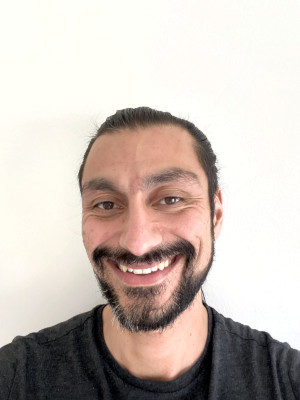
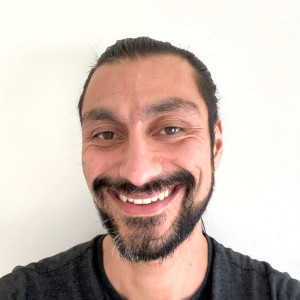
Footer (#11)
added footer and adjusted page css correspondigly

added source button to open new window in github repo

Changed region(s): [[0.0, 0.12, 1.0, 1.0], [0.84, 0.96, 0.87, 1.0], [0.24, 0.9, 0.27, 0.93]]

diff --git a/src/app/profile/aboutme/AboutMe.jsx b/src/app/profile/aboutme/AboutMe.jsx
@@ -17,7 +17,7 @@ export const AboutMe=()=>{
                 <img 
                     className={styles.headshot} 
                     ref={headshot} 
-                    src={"/headshot-square.jpeg"} 
+                    src={"/headshot.jpeg"} 
                     onLoad={()=>setImgLoaded(true)}/>
             </div>
             <div className={styles.info}>
@@ -26,21 +26,23 @@ export const AboutMe=()=>{
                 <h3 style={{animationDelay:logGrowth[3]+delay+"s"}}>Los Angeles, CA | <a href="mailto:mehran.khmn@gmail.com">mehran.khmn@gmail.com</a></h3>
             </div>
         </div>
-        <div className={styles.personalStatement}>
-            <p>Hi! Thanks for stopping by.</p>
-            <p>I am a software developer with 3.5 years of full-time professional experience building web applications in the federal space. I 
-            started my career as a front-end developer and continue to hold a deep interest in modern ui/ux. This website was built using 
-            React/next.js, and I have a little over 2 years of professional experience working on React apps.</p>
-            <p>For the past year and a half, I have been working as a full-stack developer on an enterprise web application with microservice 
-            architecture in the AWS Cloud with a modern tech stack and CI/CD pipeline. I had the chance to build, enhance, and maintain features 
-            from the ground up i.e. from db calls to api design to ui implementation.</p>
-            <p>My career as a developer has been defined by getting thrown into the deep end and picking up new technologies on the go. In other 
-            words, I have a proven track record of learning, adapting, and delivering on the job. I'm not afraid to ask for help, though I am very 
-            much self-taught and self-motivated. I am eager for feedback and direction but fully capable of shipping quality products and features 
-            independently.</p>
-            <p>I'm currently working on porting some of my personal projects over to this website. In the meantime, feel free to click around and 
-            browse my credentials. Please reach out for any additional resources should you be interested in working together.</p>
-            <p>Cheers!</p>
+        <div className={styles.wrapper}>
+            <div className={styles.personalStatement}>
+                <p>Hi! Thanks for stopping by.</p>
+                <p>I am a software developer with 3.5 years of full-time professional experience building web applications in the federal space. I 
+                started my career as a front-end developer and continue to hold a deep interest in modern ui/ux. This website was built using 
+                React/next.js, and I have a little over 2 years of professional experience working on React apps.</p>
+                <p>For the past year and a half, I have been working as a full-stack developer on an enterprise web application with microservice 
+                architecture in the AWS Cloud with a modern tech stack and CI/CD pipeline. I had the chance to build, enhance, and maintain features 
+                from the ground up i.e. from db calls to api design to ui implementation.</p>
+                <p>My career as a developer has been defined by getting thrown into the deep end and picking up new technologies on the go. In other 
+                words, I have a proven track record of learning, adapting, and delivering on the job. I'm not afraid to ask for help, though I am very 
+                much self-taught and self-motivated. I am eager for feedback and direction but fully capable of shipping quality products and features 
+                independently.</p>
+                <p>I'm currently working on porting some of my personal projects over to this website. In the meantime, feel free to click around and 
+                browse my credentials. Please reach out for any additional resources should you be interested in working together.</p>
+                <p>Cheers!</p>
+            </div>
         </div>
         </div>
 

diff --git a/src/app/Footer/Footer.module.css b/src/app/Footer/Footer.module.css
@@ -1,0 +1,60 @@
+.container{
+    display: flex;
+    justify-content: flex-end;
+    padding: 0.5rem;
+    margin: 0 min(3vw,1rem);
+}
+
+.button{
+    color:rgba(var(--foreground-rgb),.8);
+    margin:.25rem;
+    cursor:pointer;
+    padding: 0.5rem;
+    background-color: transparent !important;
+    font-family: monospace;
+    font-size: 1.25rem;
+    font-weight:700;
+    transform: scaleX(.8);
+    border: none;
+    opacity:0;
+    animation: .5s fadein ease-in forwards;
+    transition:color .25s;
+}
+
+.button:hover{
+    background-color: rgba(var(--background-rgb),.7);
+}
+
+
+/* .button svg{
+    opacity:0;
+    animation: .25s .01s fadeup forwards;
+    transition: fill .25s;
+} */
+.button:active:hover{
+    color:rgba(var(--primary-color))!important;
+}
+
+.button:hover{
+    color:rgba(var(--foreground-rgb),1);
+}
+
+@keyframes fadeup{
+    from{
+        opacity:0;
+        transform: translateY(100%);
+    }
+    to{
+        opacity:1;
+        transform: translateY(0);
+    }
+}
+
+@keyframes fadein{
+    from{
+        opacity:0;
+    }
+    to{
+        opacity:1;
+    }
+}

diff --git a/src/app/profile/workhistory/WorkEntry.jsx b/src/app/profile/workhistory/WorkEntry.jsx
@@ -13,7 +13,7 @@ export const WorkEntry=({entry,ind,expanded,trackExpanded})=>{
         <div 
             className={styles.entry} 
             key={entry.company}
-            style={{animationDelay:0.01+logGrowth[ind]+"s"}}
+            style={{animationDelay:.25+logGrowth[ind]+"s"}}
         >
             <h2>{entry.title}</h2>
             <TtButton 
@@ -26,7 +26,7 @@ export const WorkEntry=({entry,ind,expanded,trackExpanded})=>{
             <span className={styles.dates}>{entry.dates}</span>
             <ul 
                 className={`${styles.responsibilities}${expanded?" "+styles.expanded:" "+styles.collapsed}`}
-                style={{animationDelay:0.75+logGrowth[ind*2]+"s"}}
+                style={{animationDelay:1+logGrowth[ind*2]+"s"}}
             >
             {
             entry.responsibilities.map( (bullet,ind) =>

diff --git a/src/app/profile/aboutme/AboutMe.module.css b/src/app/profile/aboutme/AboutMe.module.css
@@ -4,6 +4,7 @@
     flex-direction: column;
     justify-content: flex-start;
     padding: min(3vw,1rem);
+    padding-bottom: 0;
 }
 .topCard{
     display: flex;
@@ -54,16 +55,28 @@
     opacity:0;
     animation:.25s .25s slideleft forwards;
 }
+.wrapper{
+    border-radius: .25rem;
+    overflow:hidden;
+    margin-top:1rem;
+}
 .personalStatement{
-    margin: 1rem 0;
+    margin: 0;
     background-color: rgba(var(--foreground-rgb),.02);
     border-radius: 0.25rem;
     overflow: auto;
-    max-height: min-content;
+    height: fit-content;
+    max-height: 100%;
     padding:1rem;
     opacity:0;
     animation: .25s .5s fadein forwards;
+    flex:auto
 }
+
+.personalStatement::-webkit-scrollbar-track {
+    border-radius:.25rem
+}
+
 .personalStatement p{
     opacity:0;
     line-height:0;

diff --git a/src/app/profile/workhistory/WorkHistory.module.css b/src/app/profile/workhistory/WorkHistory.module.css
@@ -13,10 +13,15 @@
     height: 100%;
     width: 100%;
     padding:1rem;
+    padding-top:0;
 }
 
 .container>h1{
     text-align: center;
+    opacity:0;
+    transform:translateY(-100%);
+    animation: .25s .01s slideup forwards;
+    margin-bottom: 1rem;
 }
 
 .responsibilities{
@@ -125,6 +130,17 @@
 @keyframes slideup{
     from{
         transform: translateY(100%);
+        opacity:0;
+    }
+    to{
+        transform:translateY(0%);
+        opacity:1;
+    }
+}
+
+@keyframes slidedown{
+    from{
+        transform: translateY(-100%);
         opacity:0;
     }
     to{

diff --git a/src/app/layout.js b/src/app/layout.js
@@ -3,6 +3,7 @@ import "./globals.css";
 import { TtProvider } from "./Providers";
 import { TopNav } from "./TopNav/TopNav";
 import { ToolTip } from "./TtButton/TtButton";
+import { Footer } from "./Footer/Footer";
 
 const inter = Inter({ subsets: ["latin"] });
 
@@ -21,6 +22,7 @@ export default function RootLayout({ children }) {
             <div className="top-container">
             {children}
             </div>
+            <Footer/>
             <ToolTip/>
           </TtProvider>
         </main>

diff --git a/src/app/Footer/Footer.jsx b/src/app/Footer/Footer.jsx
@@ -1,0 +1,18 @@
+'use client'
+
+import { TtButton } from '../TtButton/TtButton';
+import styles from './Footer.module.css'
+
+export const Footer = () =>{
+    const viewSource=()=>window.open('https://github.com/mehranathon/portfolio-1-24', '_blank').focus();
+return(
+    <div className={styles.container}>
+        <TtButton 
+            className={styles.button}
+            onClick={viewSource}
+            icon="</>"
+            tooltip="View the Source Code on Github"
+        />
+    </div>
+)
+}

diff --git a/src/app/profile/skills/Skills.module.css b/src/app/profile/skills/Skills.module.css
@@ -26,13 +26,15 @@
     height: 100%;
     border-radius: 0.25rem;
     /* padding: 0.5rem min(2vw,1rem); */
-    margin:1rem 0;
+    margin-top:1rem;
     min-width: fit-content;
     width: 100%;
     transition: .5s height;
     align-items: center;
     overflow: hidden;
     background-color: rgba(var(--foreground-rgb),.02);
+    opacity:0;
+    animation: .25s .25s slideleft forwards;
 }
 .skillContent{
     display: flex;
